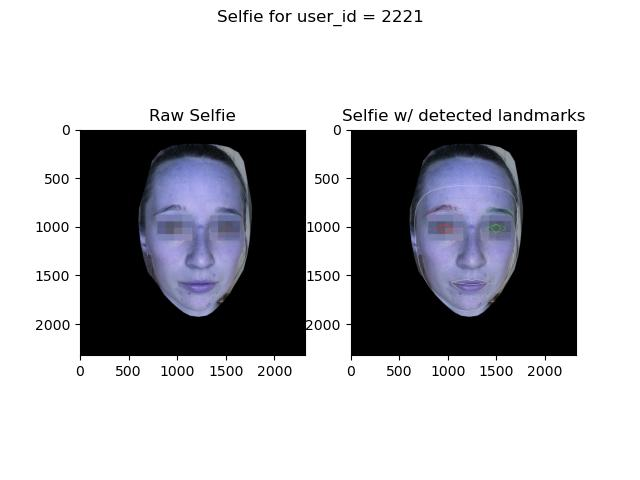
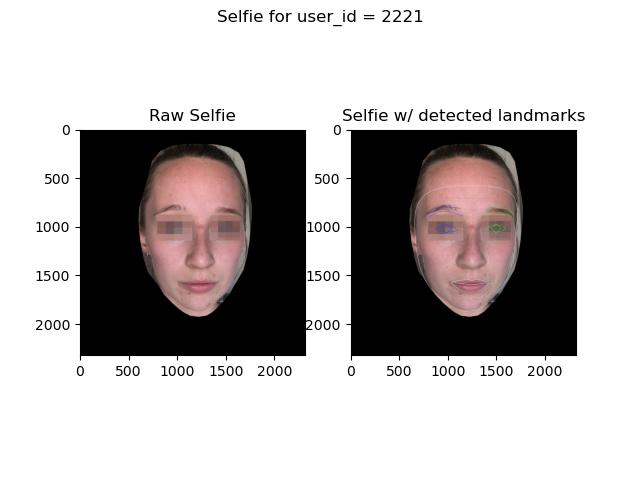
Fix color output and remove cv

Changed region(s): [[0.625, 0.3125, 0.8125, 0.6562], [0.2188, 0.3125, 0.4062, 0.6562]]

diff --git a/presentation_plots.py b/presentation_plots.py
@@ -1,7 +1,6 @@
 # %%
 from pathlib import Path
 
-import cv2
 import matplotlib.pyplot as plt
 import mediapipe as mp
 import numpy as np
@@ -42,14 +41,13 @@ fig, ax = plt.subplots(ncols=2)
 ax1, ax2 = ax[0], ax[1]
 
 
-ax1.imshow(cv2.imread(user_selfies[0].as_posix()))
+selfie_1 = mp.Image.create_from_file(user_selfies[0].as_posix())
+ax1.imshow(selfie_1.numpy_view())
 ax1.set_title("Raw Selfie")
 
-selfie_1 = mp.Image.create_from_file(user_selfies[0].as_posix())
 detection_result_1 = landmarker.detect(selfie_1)
 annotated_selfie_1 = draw_landmarks_on_image(selfie_1.numpy_view(), detection_result_1)
-color_corrected_selfie_1 = cv2.cvtColor(annotated_selfie_1, cv2.COLOR_BGR2RGB)
-ax2.imshow(color_corrected_selfie_1)
+ax2.imshow(annotated_selfie_1)
 ax2.set_title("Selfie w/ detected landmarks")
 
 fig.suptitle(f"Selfie for {user_id = }")
@@ -62,14 +60,14 @@ fig, ax = plt.subplots(ncols=2)
 ax1, ax2 = ax[0], ax[1]
 
 
-ax1.imshow(cv2.imread(user_selfies[100].as_posix()))
+selfie_2 = mp.Image.create_from_file(user_selfies[100].as_posix())
+ax1.imshow(selfie_2.numpy_view())
 ax1.set_title("Raw Selfie")
 
-selfie_1 = mp.Image.create_from_file(user_selfies[100].as_posix())
+
 detection_result_1 = landmarker.detect(selfie_1)
 annotated_selfie_1 = draw_landmarks_on_image(selfie_1.numpy_view(), detection_result_1)
-color_corrected_selfie_1 = cv2.cvtColor(annotated_selfie_1, cv2.COLOR_BGR2RGB)
-ax2.imshow(color_corrected_selfie_1)
+ax2.imshow(annotated_selfie_1)
 ax2.set_title("Selfie w/ detected landmarks")
 
 fig.suptitle(f"Selfie for {user_id = }")
